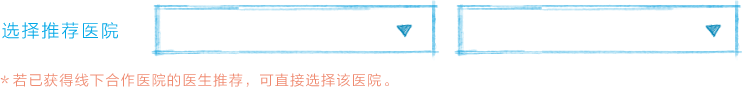
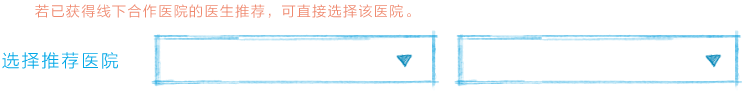
upda

diff --git a/yii/css/style.css b/yii/css/style.css
@@ -176,8 +176,10 @@ background-size:100% 100%;-webkit-background-size:100% 100%;-moz-background-size
 .about_txt1 p{padding: 10px 0 0;}
 .about_img1{position: absolute;top:60px;right: 0}
 .sec_about2{padding:0 0 32px;}
-.about_2_1_i {float:left;font-size:14px;text-align:center;margin:20px;}
-.about_2_1_i .gm-img {display:block;}
+.about_2_1_i {float:left;font-size:14px;text-align:center;margin:20px 59px;}
+.about_2_1_i .gm-img {display:block;width:191px;height:143px;position: relative;}
+.about_2_1_i .gm-img img {position:absolute;top:0;left:0;}
+.about_2_1_i .gm-img .p2 {display:none;}
 .about_vs { background: url('../images/about_vsbg.jpg') no-repeat; width: 840px; height: 315px; margin: 0 auto; position: relative; font-size: 14px; }
 .vs_sz{float: left;width: 320px;display: inline;margin: 0 50px 0 60px;}
 .about_vs h3 { font-weight: normal; color: #ef896f; text-align: center; font-size: 14px; line-height: 90px; padding-top: 23px; }
@@ -441,11 +443,12 @@ background-size:100% 100%;-webkit-background-size:100% 100%;-moz-background-size
 .profile_txtcom{background: url('../images/profile_txtcom.jpg') no-repeat;width:960px;margin: 0 auto;height: 225px;padding:30px 0 0;}
 .profile_txtcom textarea{color:#999;font-family: "Microsoft YaHei", arial, SimHei, sans-serif;width: 900px;margin: 0 auto;padding:0;display: block;font-size: 14px;border:0;height: 160px;background: none}
 .profile_txtcom textarea:focus {color:#000;}
-.profile_hosp{background:url('../images/profile_hosp.png') no-repeat;width: 940px;height: 90px;margin: 15px auto 30px;position: relative;}
-.profile_selcity_txt{left: 160px;top: 10px;height: 46px;line-height: 42px;width: 250px;padding: 0 10px;}
-.profile_selcity{left: 160px;top: 20px;width: 270px;height: 46px;}
-.profile_selhosp_txt{left: 464px;top: 10px;height: 46px;line-height: 42px;width: 250px;padding: 0 10px;}
-.profile_selhosp{left: 464px;top: 20px;width: 270px;height: 46px;}
+.profile_hosp {background:url('../images/profile_hosp.png') no-repeat;width: 940px;height: 90px;margin: 15px auto 30px;position: relative;}
+.profile_hosp .make_check {float:none;position: absolute;width:24px;height:24px;}
+.profile_selcity_txt {left: 160px;top: 37px;height: 46px;line-height: 42px;width: 250px;padding: 0 10px;}
+.profile_selcity{left: 160px;top: 49px;width: 270px;height: 46px;}
+.profile_selhosp_txt{left: 464px;top: 37px;height: 46px;line-height: 42px;width: 250px;padding: 0 10px;}
+.profile_selhosp{left: 464px;top: 49px;width: 270px;height: 46px;}
 .profile_btn{border:none;font-size:0;background: url('../images/profile_btn.jpg') no-repeat;width: 165px;height: 58px;margin: 0 auto;display: block;}
 
 .profile_selcity_txt1 {top:2px;left:342px;}

diff --git a/yii/js/common/index.js b/yii/js/common/index.js
@@ -122,6 +122,16 @@ $(document).ready(function() {
 	});
 
 
+	$('.about_2_1_i .gm-img').hover(function(){
+		$(this).find('.p2').fadeIn();
+	},function(){
+		$(this).find('.p2').fadeOut();
+	});
+
+
+	$('.profile_hosp .make_check').click(function(){
+		$('.make_check').fadeIn();
+	});
 
 	// header nav list
     var dNav = $('.header .nav');

diff --git a/yii/protected/views/about/index.php b/yii/protected/views/about/index.php
@@ -13,32 +13,39 @@
 		<div class="about_tit about_tit2_1">湿疹的表现</div>
 		<div class="about_2_1 cs-clear">
 			<div class="about_2_1_i">
-				<a class="gm-img" href="<?=Yii::app()->baseUrl.'/'?>images/about_img1.jpg"><img src="<?=Yii::app()->baseUrl.'/'?>pic/1.jpg" /></a>
-				<p>干燥</p>
-			</div>
-			<div class="about_2_1_i">
-				<a class="gm-img" href="<?=Yii::app()->baseUrl.'/'?>images/about_img1.jpg"><img src="<?=Yii::app()->baseUrl.'/'?>pic/1.jpg" /></a>
-				<p>瘙痒</p>
-			</div>
-			<div class="about_2_1_i">
-				<a class="gm-img" href="<?=Yii::app()->baseUrl.'/'?>images/about_img1.jpg"><img src="<?=Yii::app()->baseUrl.'/'?>pic/1.jpg" /></a>
+				<div class="gm-img">
+					<img class="p1" src="<?=Yii::app()->baseUrl.'/'?>pic/1.jpg" />
+					<img class="p2" src="<?=Yii::app()->baseUrl.'/'?>pic/1_2.jpg" />
+				</div>
 				<p>红斑</p>
 			</div>
 			<div class="about_2_1_i">
-				<a class="gm-img" href="<?=Yii::app()->baseUrl.'/'?>images/about_img1.jpg"><img src="<?=Yii::app()->baseUrl.'/'?>pic/1.jpg" /></a>
-				<p>水疱</p>
-			</div>
-			<div class="about_2_1_i" style="margin-left:100px;">
-				<a class="gm-img" href="<?=Yii::app()->baseUrl.'/'?>images/about_img1.jpg"><img src="<?=Yii::app()->baseUrl.'/'?>pic/1.jpg" /></a>
-				<p>抓痕</p>
-			</div>
-			<div class="about_2_1_i">
-				<a class="gm-img" href="<?=Yii::app()->baseUrl.'/'?>images/about_img1.jpg"><img src="<?=Yii::app()->baseUrl.'/'?>pic/1.jpg" /></a>
+				<div class="gm-img">
+					<img class="p1" src="<?=Yii::app()->baseUrl.'/'?>pic/1.jpg" />
+					<img class="p2" src="<?=Yii::app()->baseUrl.'/'?>pic/2_2.jpg" />
+				</div>
 				<p>糜烂</p>
 			</div>
 			<div class="about_2_1_i">
-				<a class="gm-img" href="<?=Yii::app()->baseUrl.'/'?>images/about_img1.jpg"><img src="<?=Yii::app()->baseUrl.'/'?>pic/1.jpg" /></a>
+				<div class="gm-img">
+					<img class="p1" src="<?=Yii::app()->baseUrl.'/'?>pic/1.jpg" />
+					<img class="p2" src="<?=Yii::app()->baseUrl.'/'?>pic/3_2.jpg" />
+				</div>
+				<p>渗液</p>
+			</div>
+			<div class="about_2_1_i" style="margin-left:216px;">
+				<div class="gm-img">
+					<img class="p1" src="<?=Yii::app()->baseUrl.'/'?>pic/1.jpg" />
+					<img class="p2" src="<?=Yii::app()->baseUrl.'/'?>pic/4_2.jpg" />
+				</div>
 				<p>苔藓样</p>
+			</div>
+			<div class="about_2_1_i">
+				<div class="gm-img">
+					<img class="p1" src="<?=Yii::app()->baseUrl.'/'?>pic/1.jpg" />
+					<img class="p2" src="<?=Yii::app()->baseUrl.'/'?>pic/5_2.jpg" />
+				</div>
+				<p>抓痕</p>
 			</div>
 		</div>
 	</div>

diff --git a/yii/protected/views/baby/update.php b/yii/protected/views/baby/update.php
@@ -88,6 +88,7 @@
     </div>
     <!--  -->
     <div class="profile_hosp">
+	    <div class="make_check"></div>
         <p class="profile_seltxt profile_selcity_txt"><?=$model->point_city ? $model->point_city : '请选择所在城市'?></p>
         <select name="Baby[point_city]"  class="profile_sel profile_selcity" id="city_sel">
             <option>请选择所在城市</option>
